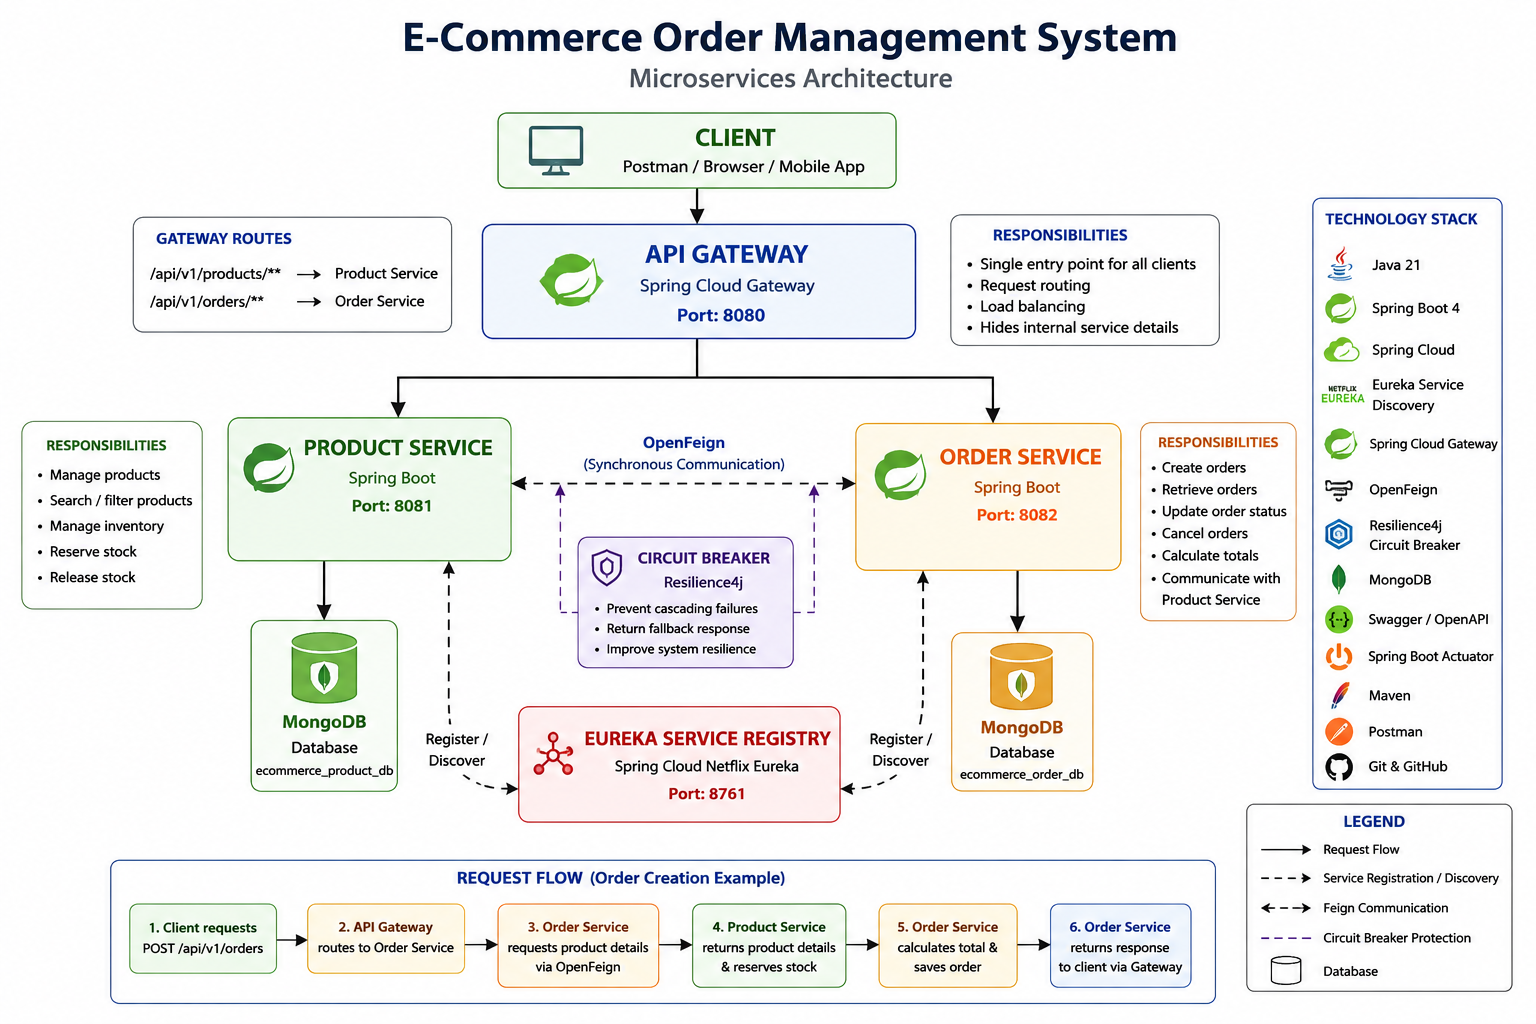
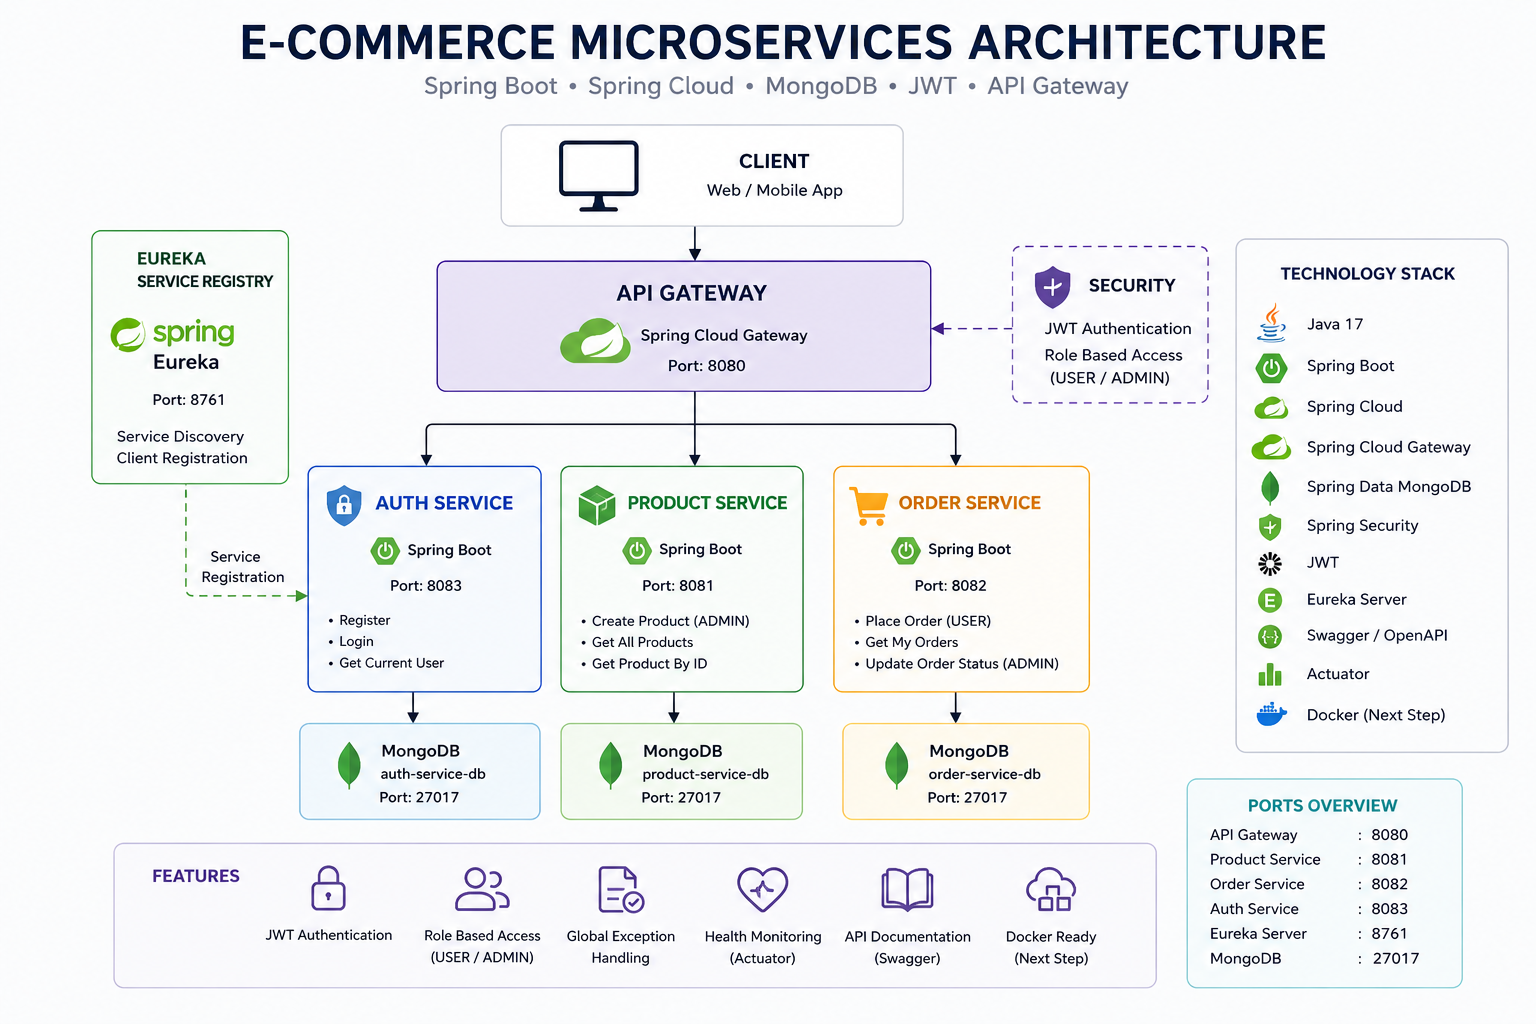
Add GitHub Actions CI pipeline

Changed region(s): [[0.0312, 0.0, 1.0, 0.9688], [0.6875, 0.5312, 0.7188, 0.5625]]

diff --git a/auth-service/src/main/java/com/ecommerce/auth/exception/GlobalExceptionHandler.java b/auth-service/src/main/java/com/ecommerce/auth/exception/GlobalExceptionHandler.java
@@ -15,34 +15,13 @@ public class GlobalExceptionHandler {
   @ExceptionHandler(IllegalStateException.class)
   public ResponseEntity<Map<String, Object>> handleIllegalStateException(IllegalStateException ex) {
 
-    String message = ex.getMessage();
+    String message = ex.getMessage() != null ? ex.getMessage() : "Invalid authentication request";
 
-    if (message != null && message.toLowerCase().contains("already exists")) {
-
-      return ResponseEntity.status(HttpStatus.CONFLICT)
-          .body(
-              Map.of(
-                  "timestamp",
-                  LocalDateTime.now(),
-                  "status",
-                  HttpStatus.CONFLICT.value(),
-                  "error",
-                  "USER_ALREADY_EXISTS",
-                  "message",
-                  message));
+    if (message.toLowerCase().contains("already exists")) {
+      return buildResponse(HttpStatus.CONFLICT, "USER_ALREADY_EXISTS", message);
     }
 
-    return ResponseEntity.status(HttpStatus.UNAUTHORIZED)
-        .body(
-            Map.of(
-                "timestamp",
-                LocalDateTime.now(),
-                "status",
-                HttpStatus.UNAUTHORIZED.value(),
-                "error",
-                "UNAUTHORIZED",
-                "message",
-                message != null ? message : "Invalid authentication credentials"));
+    return buildResponse(HttpStatus.UNAUTHORIZED, "UNAUTHORIZED", message);
   }
 
   @ExceptionHandler(MethodArgumentNotValidException.class)
@@ -55,34 +34,37 @@ public class GlobalExceptionHandler {
         .getFieldErrors()
         .forEach(error -> validationErrors.put(error.getField(), error.getDefaultMessage()));
 
-    return ResponseEntity.status(HttpStatus.BAD_REQUEST)
-        .body(
-            Map.of(
-                "timestamp",
-                LocalDateTime.now(),
-                "status",
-                HttpStatus.BAD_REQUEST.value(),
-                "error",
-                "VALIDATION_FAILED",
-                "message",
-                "Request validation failed",
-                "errors",
-                validationErrors));
+    Map<String, Object> response = new HashMap<>();
+
+    response.put("timestamp", LocalDateTime.now());
+    response.put("status", HttpStatus.BAD_REQUEST.value());
+    response.put("error", "VALIDATION_FAILED");
+    response.put("message", "Request validation failed");
+    response.put("errors", validationErrors);
+
+    return ResponseEntity.badRequest().body(response);
   }
 
   @ExceptionHandler(Exception.class)
   public ResponseEntity<Map<String, Object>> handleGeneralException(Exception ex) {
 
-    return ResponseEntity.status(HttpStatus.INTERNAL_SERVER_ERROR)
+    return buildResponse(
+        HttpStatus.INTERNAL_SERVER_ERROR, "INTERNAL_SERVER_ERROR", "An unexpected error occurred");
+  }
+
+  private ResponseEntity<Map<String, Object>> buildResponse(
+      HttpStatus status, String error, String message) {
+
+    return ResponseEntity.status(status)
         .body(
             Map.of(
                 "timestamp",
                 LocalDateTime.now(),
                 "status",
-                HttpStatus.INTERNAL_SERVER_ERROR.value(),
+                status.value(),
                 "error",
-                "INTERNAL_SERVER_ERROR",
+                error,
                 "message",
-                "An unexpected error occurred"));
+                message));
   }
 }

diff --git a/auth-service/src/main/java/com/ecommerce/auth/controller/AuthController.java b/auth-service/src/main/java/com/ecommerce/auth/controller/AuthController.java
@@ -4,32 +4,61 @@ import com.ecommerce.auth.dto.AuthResponse;
 import com.ecommerce.auth.dto.LoginRequest;
 import com.ecommerce.auth.dto.RegisterRequest;
 import com.ecommerce.auth.service.AuthService;
+import io.swagger.v3.oas.annotations.Operation;
+import io.swagger.v3.oas.annotations.responses.ApiResponse;
+import io.swagger.v3.oas.annotations.responses.ApiResponses;
+import io.swagger.v3.oas.annotations.tags.Tag;
 import jakarta.validation.Valid;
 import lombok.RequiredArgsConstructor;
 import org.springframework.http.HttpStatus;
+import org.springframework.security.core.Authentication;
 import org.springframework.web.bind.annotation.*;
 
 @RestController
 @RequestMapping("/api/v1/auth")
 @RequiredArgsConstructor
+@Tag(
+    name = "Authentication",
+    description = "APIs for user registration, login, and authenticated user information")
 public class AuthController {
 
   private final AuthService authService;
 
+  @Operation(
+      summary = "Register a new user",
+      description = "Creates a new user account with the provided registration details.")
+  @ApiResponses({
+    @ApiResponse(responseCode = "201", description = "User registered successfully"),
+    @ApiResponse(responseCode = "400", description = "Invalid registration details"),
+    @ApiResponse(responseCode = "409", description = "User already exists")
+  })
   @PostMapping("/register")
   @ResponseStatus(HttpStatus.CREATED)
   public AuthResponse register(@Valid @RequestBody RegisterRequest request) {
     return authService.register(request);
   }
 
+  @Operation(summary = "User login", description = "Authenticates a user and returns a JWT token.")
+  @ApiResponses({
+    @ApiResponse(responseCode = "200", description = "Login successful"),
+    @ApiResponse(responseCode = "400", description = "Invalid login request"),
+    @ApiResponse(responseCode = "401", description = "Invalid username or password")
+  })
   @PostMapping("/login")
   public AuthResponse login(@Valid @RequestBody LoginRequest request) {
     return authService.login(request);
   }
 
+  @Operation(
+      summary = "Get current authenticated user",
+      description =
+          "Returns information about the currently authenticated user based on the JWT token.")
+  @ApiResponses({
+    @ApiResponse(responseCode = "200", description = "Authenticated user information returned"),
+    @ApiResponse(responseCode = "401", description = "User is not authenticated")
+  })
   @GetMapping("/me")
-  public String getCurrentUser(org.springframework.security.core.Authentication authentication) {
-
+  public String getCurrentUser(Authentication authentication) {
     return "Authenticated user: " + authentication.getName();
   }
 }

diff --git a/product-service/src/main/java/com/ecommerce/product/exception/GlobalExceptionHandler.java b/product-service/src/main/java/com/ecommerce/product/exception/GlobalExceptionHandler.java
@@ -77,4 +77,20 @@ public class GlobalExceptionHandler {
 
     return ResponseEntity.status(HttpStatus.BAD_REQUEST).body(error);
   }
+
+  @ExceptionHandler(Exception.class)
+  public ResponseEntity<Map<String, Object>> handleGeneralException(Exception ex) {
+
+    return ResponseEntity.status(HttpStatus.INTERNAL_SERVER_ERROR)
+            .body(
+                    Map.of(
+                            "timestamp",
+                            LocalDateTime.now(),
+                            "status",
+                            HttpStatus.INTERNAL_SERVER_ERROR.value(),
+                            "error",
+                            "INTERNAL_SERVER_ERROR",
+                            "message",
+                            "An unexpected error occurred"));
+  }
 }

diff --git a/auth-service/src/main/java/com/ecommerce/auth/config/OpenApiConfig.java b/auth-service/src/main/java/com/ecommerce/auth/config/OpenApiConfig.java
@@ -1,0 +1,22 @@
+package com.ecommerce.auth.config;
+
+import io.swagger.v3.oas.models.OpenAPI;
+import io.swagger.v3.oas.models.info.Info;
+import org.springframework.context.annotation.Bean;
+import org.springframework.context.annotation.Configuration;
+
+@Configuration
+public class OpenApiConfig {
+
+  @Bean
+  public OpenAPI authServiceOpenAPI() {
+    return new OpenAPI()
+        .info(
+            new Info()
+                .title("E-Commerce Auth Service API")
+                .description(
+                    "REST APIs for user registration, authentication, "
+                        + "JWT token generation, and user management.")
+                .version("1.0.0"));
+  }
+}

diff --git a/auth-service/src/main/java/com/ecommerce/auth/security/SecurityConfig.java b/auth-service/src/main/java/com/ecommerce/auth/security/SecurityConfig.java
@@ -27,7 +27,12 @@ public class SecurityConfig {
             session -> session.sessionCreationPolicy(SessionCreationPolicy.STATELESS))
         .authorizeHttpRequests(
             auth ->
-                auth.requestMatchers("/api/v1/auth/register", "/api/v1/auth/login")
+                auth.requestMatchers(
+                        "/api/v1/auth/register",
+                        "/api/v1/auth/login",
+                        "/swagger-ui/**",
+                        "/swagger-ui.html",
+                        "/v3/api-docs/**")
                     .permitAll()
                     .requestMatchers("/actuator/**")
                     .permitAll()

diff --git a/README.md b/README.md
@@ -224,6 +224,12 @@ Interactive Swagger documentation for Order Service APIs.
 
 ![Order Swagger](screenshots/order-swagger.png)
 
+### Auth Service — Swagger
+
+Interactive Swagger documentation for Auth Service APIs.
+
+![Auth Swagger](screenshots/authservice-swagger.png)
+
 ### Create Order — Postman
 
 Successful order creation through the API Gateway.
@@ -1359,13 +1365,13 @@ http://localhost:8083/swagger-ui/index.html
 ### Product Service
 
 ```text
-http://localhost:8081/swagger-ui/index.html
+http://localhost:8080/swagger-ui/index.html
 ```
 
 ### Order Service
 
 ```text
-http://localhost:8082/swagger-ui/index.html
+http://localhost:8080/swagger-ui/index.html
 ```
 
 ### API Gateway
